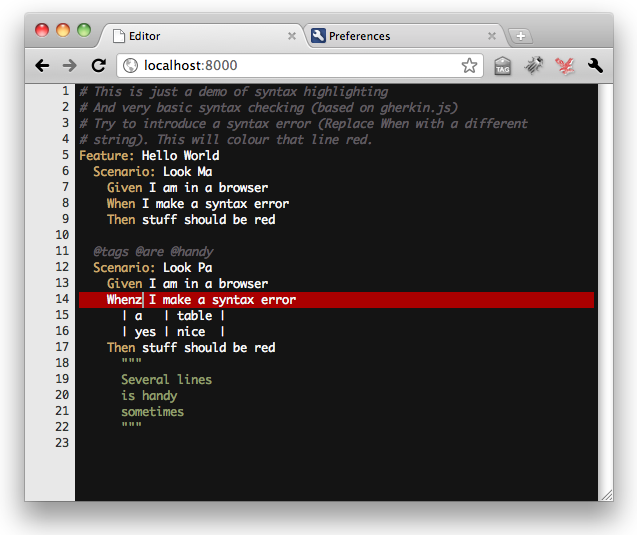
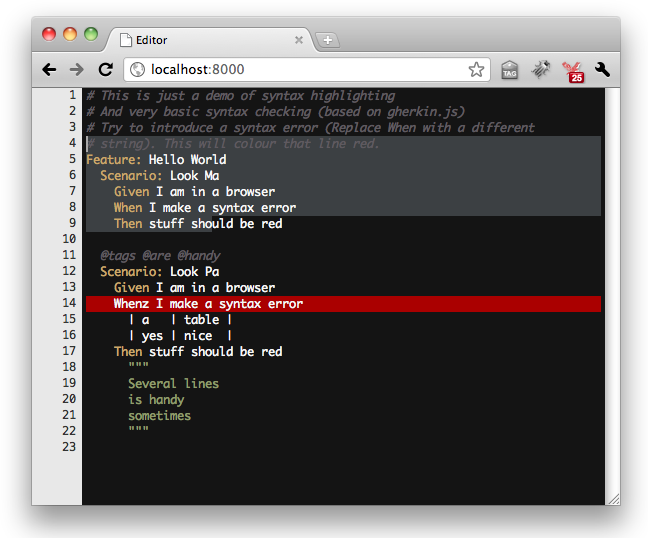
Link to (better) screenshot

Changed region(s): [[0.0298, 0.0, 0.9843, 0.957]]

diff --git a/README.md b/README.md
@@ -13,7 +13,7 @@ The target audience is primarily non-programmers. The kind of people we want to 
 
 # What it looks like so far
 
-
+![Syntax error](https://github.com/cucumber/gherkin-editor/raw/master/public/images/screenshots/syntax_error.png "The editor has detected a syntax error")
 
 # Install and run
 
